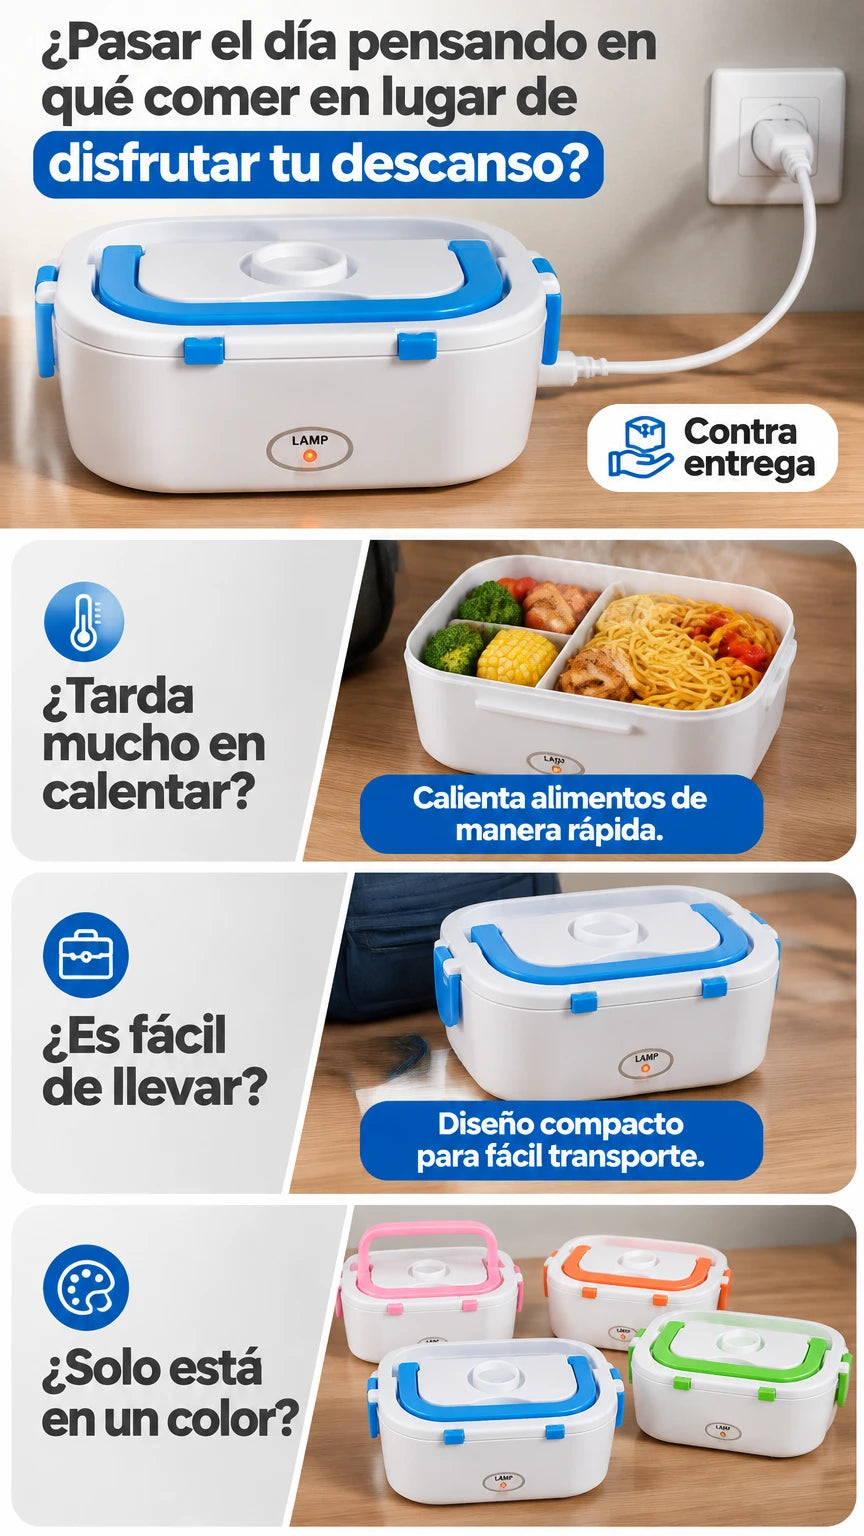
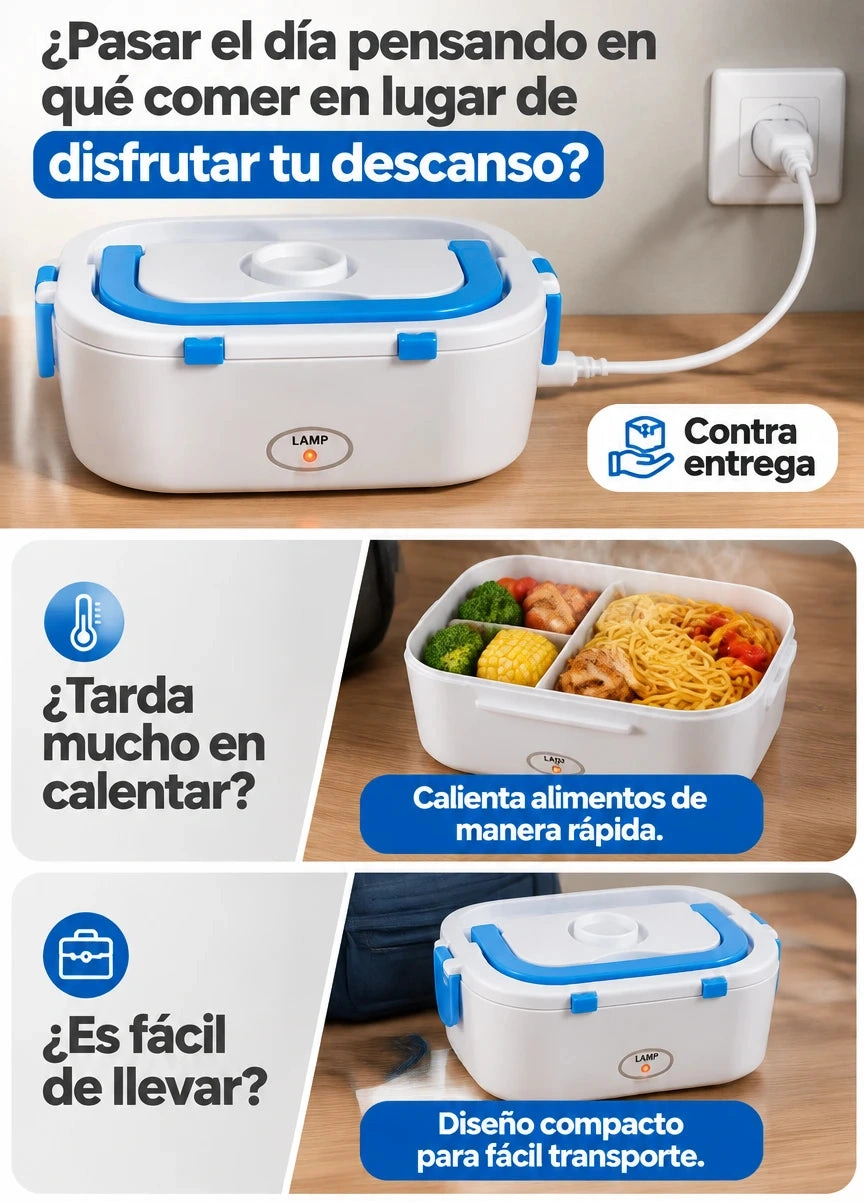
Lonchera: sold in blue only (texts, specs, FAQ) and the 4-colours panel cropped off the questions image

diff --git a/js/products.js b/js/products.js
@@ -1617,7 +1617,7 @@ const PRODUCTS = [
     icon: "🍱",
     image: "images/lonchera-main.webp",
     squarePhotos: true,
-    images: ["images/lonchera-main.webp"],
+    images: ["images/lonchera-main.webp"], // blue: the user sells it in blue only
     description: "Una lonchera eléctrica que calienta tu comida donde estés: la conectas, esperas unos minutos y comes caliente en el trabajo, sin hacer fila en el microondas.",
     offers: [
       { qty: 1, price: 45.99, label: "1 lonchera" },
@@ -1667,8 +1667,8 @@ const PRODUCTS = [
       },
       {
         image: "images/lonchera-preguntas.webp",
-        title: "Rápida, compacta y en 4 colores",
-        text: "Calienta rápido, se lleva fácil en tu bolso o mochila y viene en azul, rosado, naranja y verde.",
+        title: "Rápida y compacta",
+        text: "Calienta rápido y se lleva fácil en tu bolso o mochila. Te llega en color azul.",
       },
       {
         image: "images/lonchera-oferta.webp",
@@ -1686,12 +1686,12 @@ const PRODUCTS = [
       "Uso": "Calentar comida ya preparada",
       "Conexión": "Enchufe de pared",
       "Interior": "Bandeja con 2 compartimentos",
-      "Colores": "Azul, rosado, naranja y verde",
+      "Color": "Azul",
     },
     faq: [
       { q: "¿Cuánto tarda en calentar?", a: "Unos minutos, según la comida y la cantidad. Conéctala un rato antes de tu hora de almuerzo." },
       { q: "¿Cocina la comida cruda?", a: "No. Está hecha para calentar comida ya preparada, como tu almuerzo de casa." },
-      { q: "¿Puedo escoger el color?", a: "Escríbelo en tu pedido o díselo al agente cuando te llame para confirmar; te enviamos el color disponible más cercano." },
+      { q: "¿De qué color es?", a: "Te llega en color azul." },
       { q: "¿Cómo pago?", a: "Pagas en efectivo cuando recibes tu pedido. No necesitas tarjeta." },
       { q: "¿Cuánto tarda en llegar?", a: "Entre 1 y 3 días hábiles, según tu departamento. El envío es gratis." },
     ],
